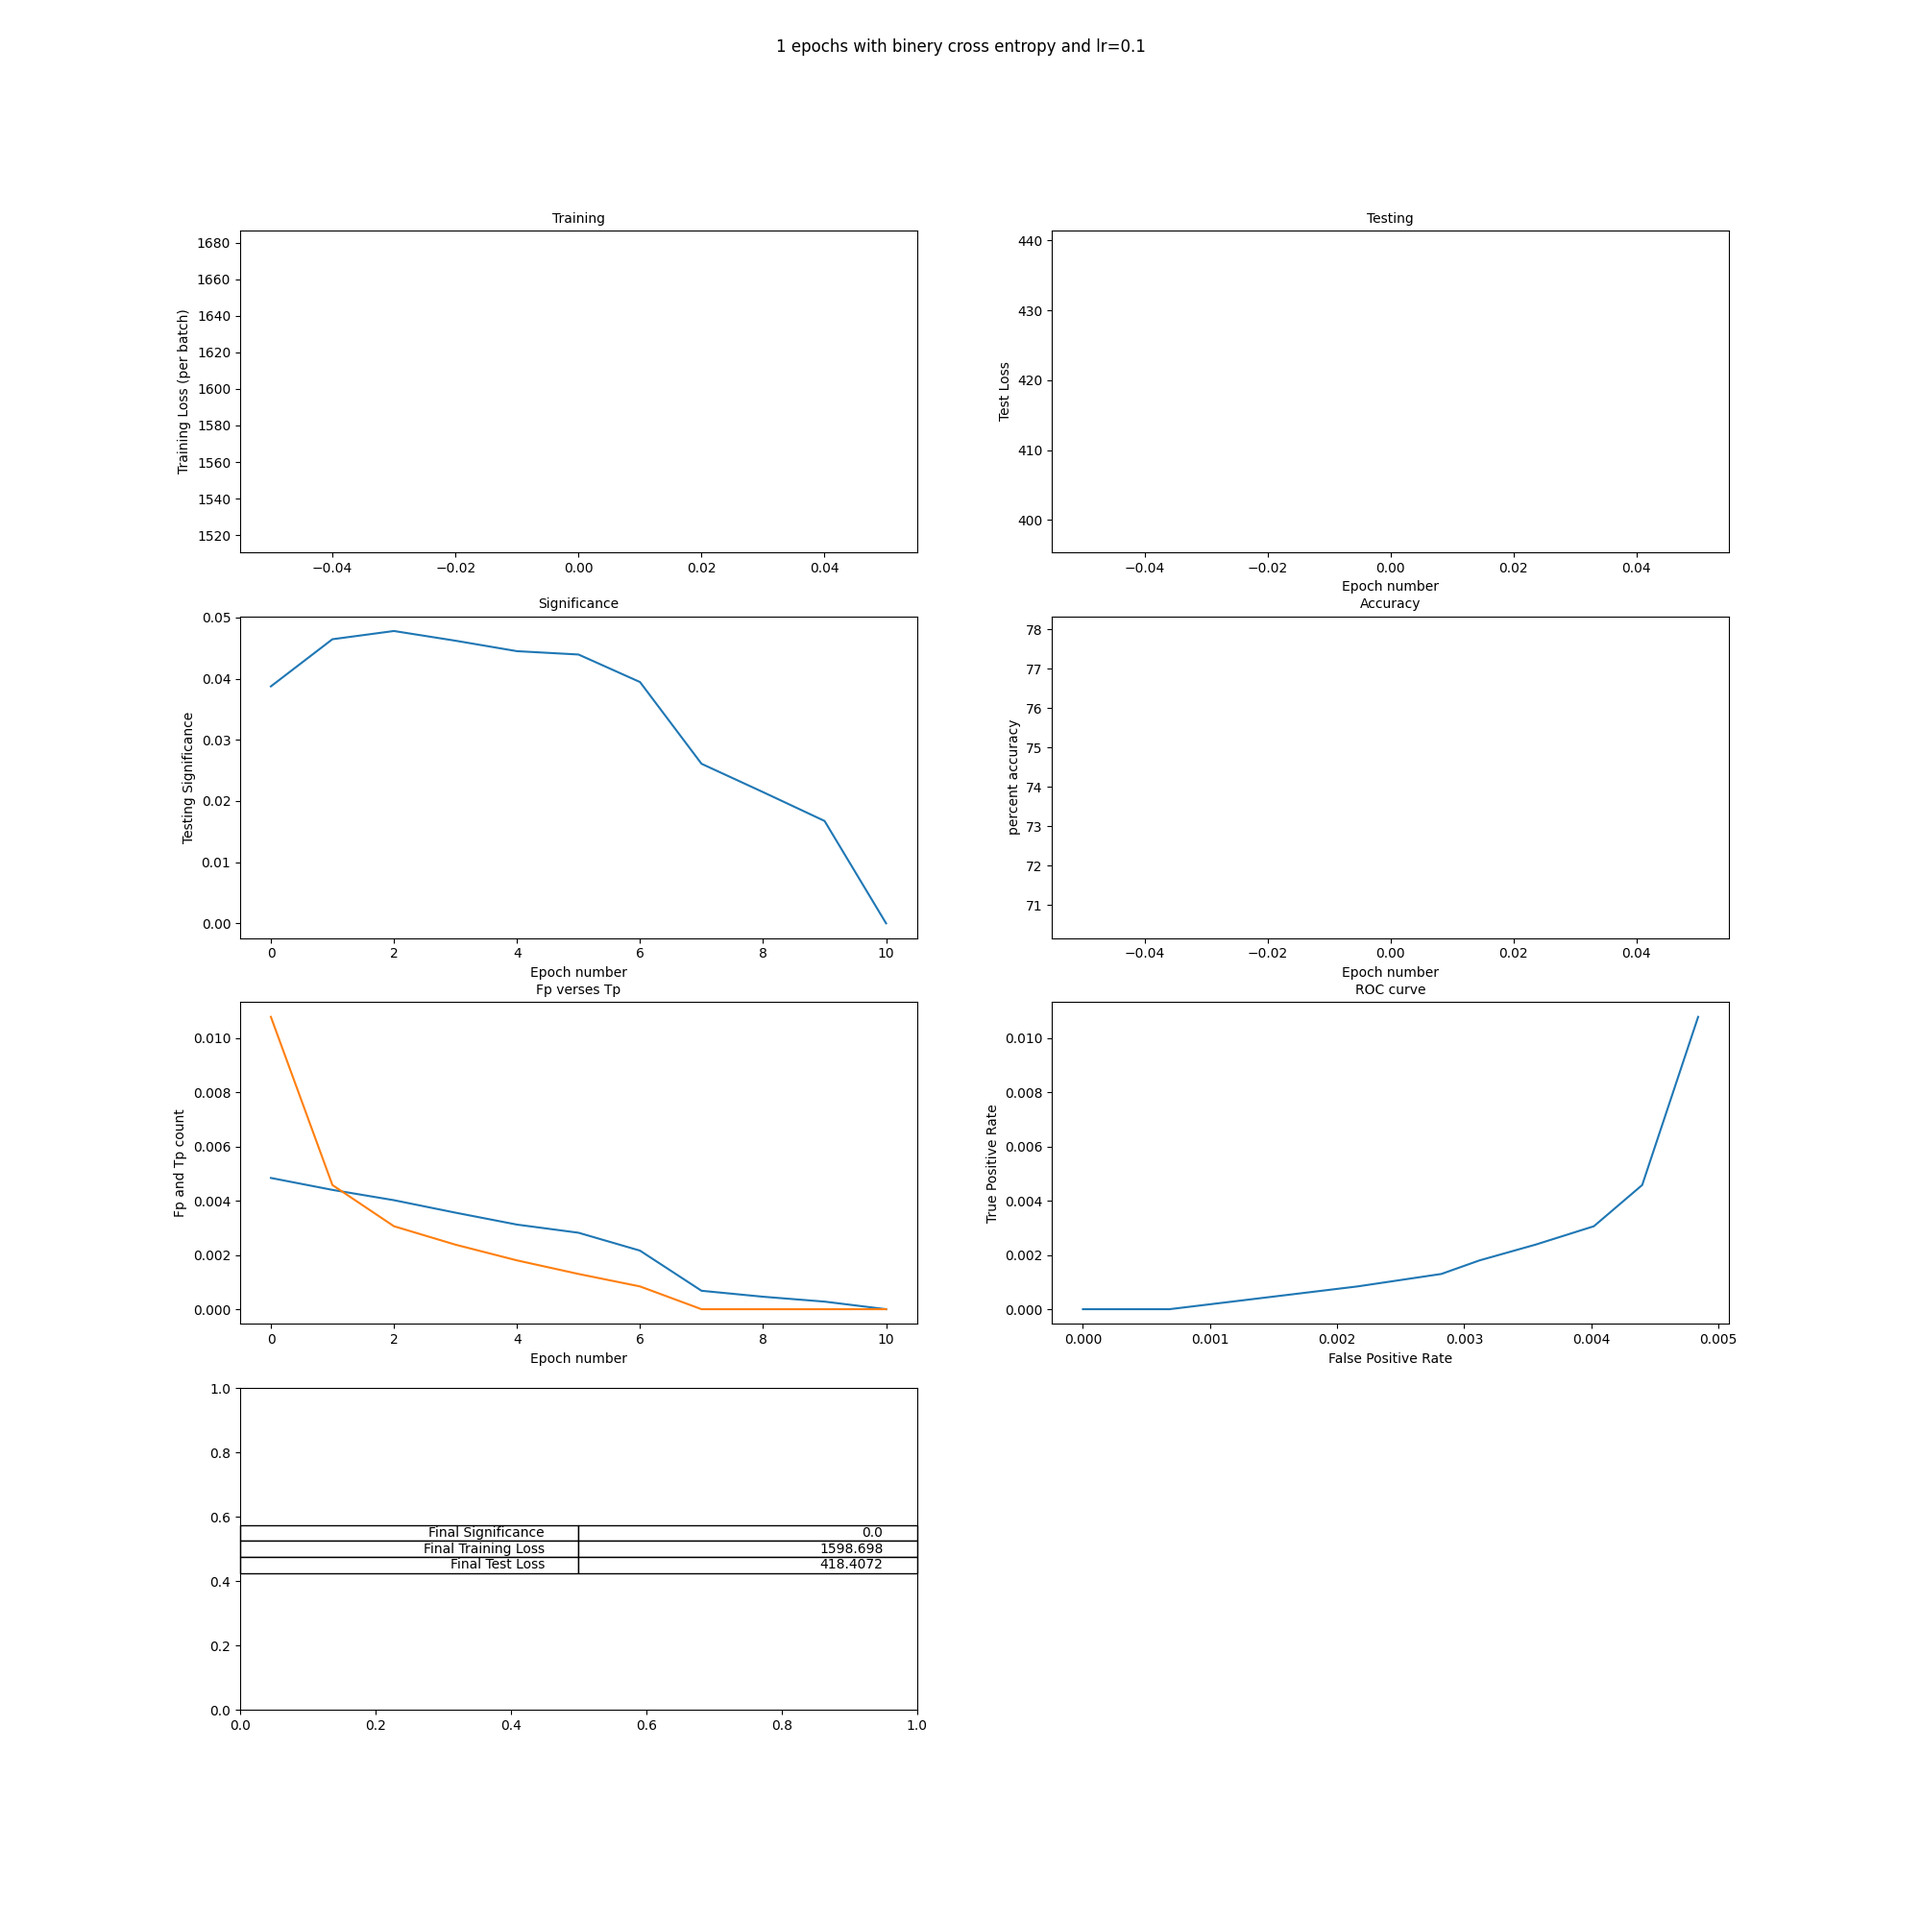
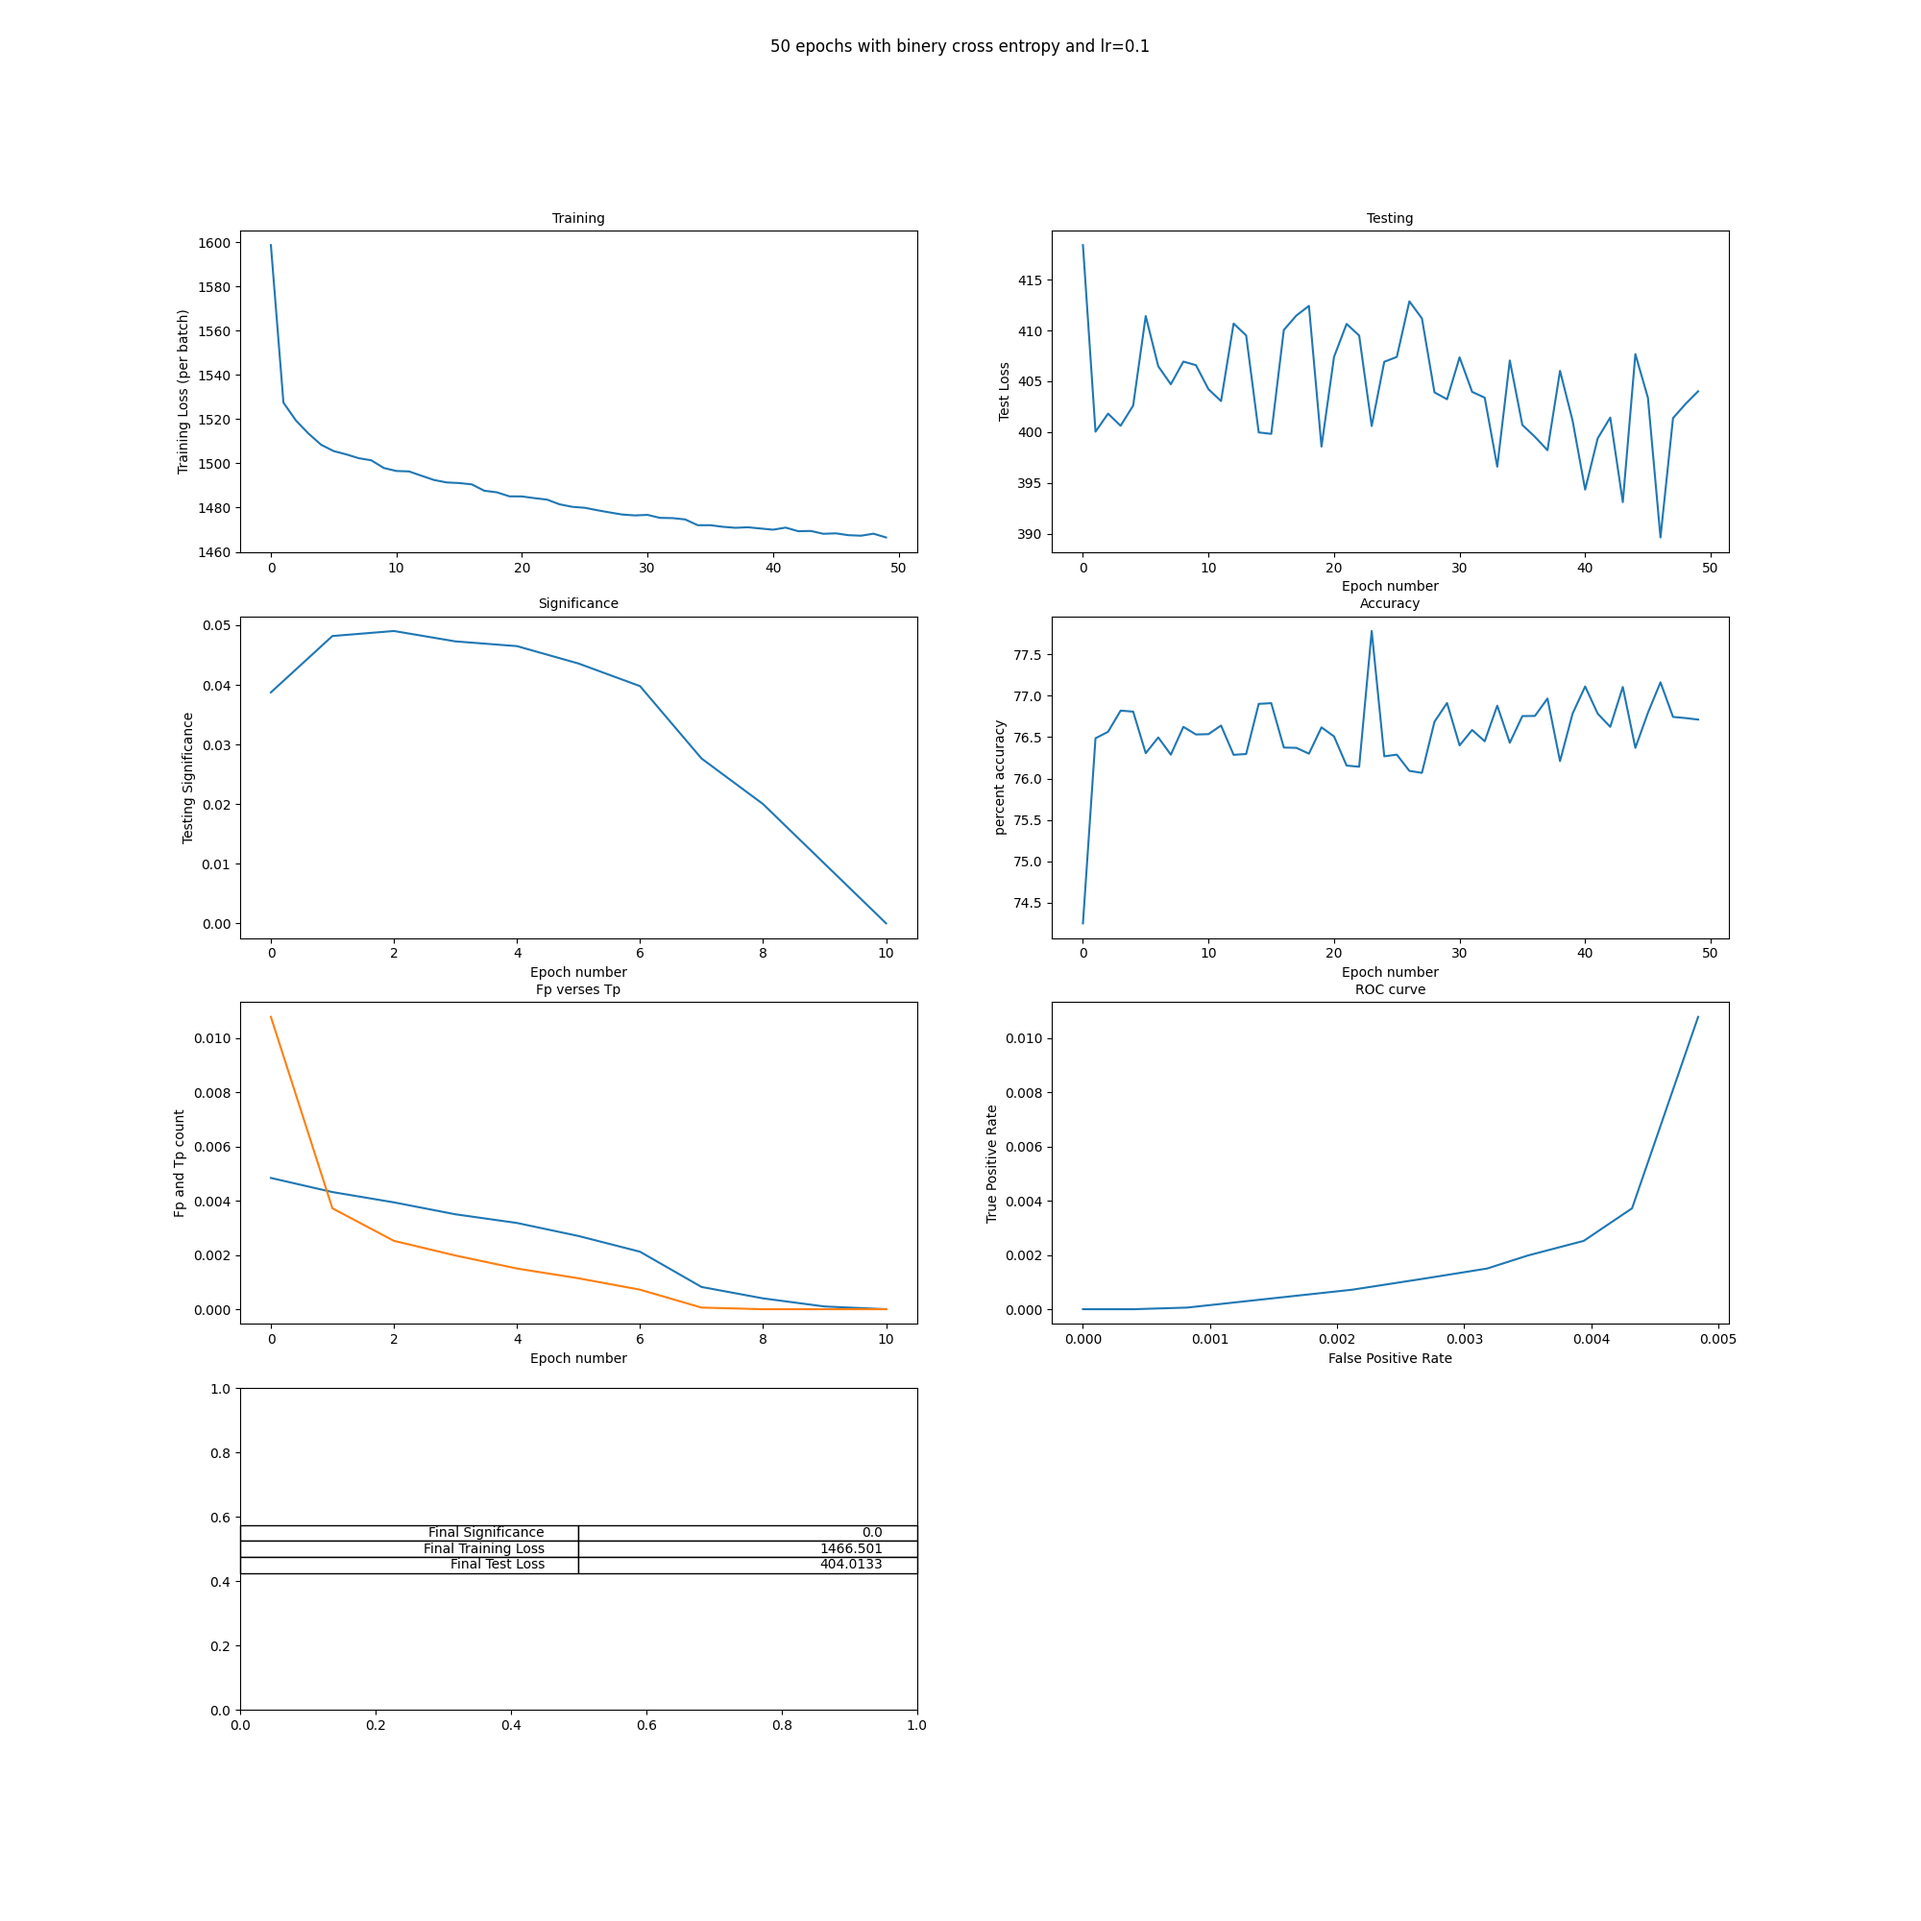
added tests

diff --git a/physicsdataset/phy_test.py b/physicsdataset/phy_test.py
@@ -10,13 +10,15 @@ def test(network, data, target, loss_function_id,calculating_tp_and_fp = False, 
 
     num_correct = 0
 
-    for guess in range(variables.test_batch_size):
+    if calculating_tp_and_fp:
+        tp = 0
+        fp = 0
 
-        if calculating_tp_and_fp:
-            tp = 0
-            fp = 0
-        if output[guess][0].item() > cutoff:
-            if target[guess][0]  == 1:
+    for event in range(variables.test_batch_size):
+
+
+        if output[event][0].item() > cutoff:
+            if target[event][0]  == 1:
                 num_correct += 1
                 if calculating_tp_and_fp:
                     tp += 1
@@ -24,7 +26,7 @@ def test(network, data, target, loss_function_id,calculating_tp_and_fp = False, 
                 if calculating_tp_and_fp:
                     fp += 1
         else:
-            if target[guess][0] ==0:
+            if target[event][0] ==0:
                 num_correct += 1
 
     if calculating_tp_and_fp:

diff --git a/physicsdataset/phy_main.py b/physicsdataset/phy_main.py
@@ -12,7 +12,7 @@ from physicsdataset.phy_variables import variables
 
 # 250000
 loss_function_id = 2
-num_epochs = 50
+num_epochs = 200
 learning_rate = 0.1
 num_training_batches = 3125
 num_testing_batches = 781
@@ -64,8 +64,8 @@ for epoch in tqdm(range(variables.num_epochs), colour = "green",desc= "Training"
 
 
 
-network_path= "../phy_nets/net2.pth"
-plot_path = '../physics_graphs/test_graph2.png'
+network_path= "../phy_nets/net4.pth"
+plot_path = '../physics_graphs/test_graph4.png'
 
 
 torch.save(network.state_dict(),network_path)

diff --git a/physicsdataset/phy_net.py b/physicsdataset/phy_net.py
@@ -7,8 +7,8 @@ class Net(nn.Module):
     def __init__(self):
         super(Net, self).__init__()
         #batchnorm1d
-        self.fc1 = nn.Linear(30,50)
-        self.fc2 = nn.Linear(50,1)
+        self.fc1 = nn.Linear(30,128)
+        self.fc2 = nn.Linear(128,1)
        # self.fc2 = nn.Linear(128,256)
        # self.fc3 = nn.Linear(256,1)
       
